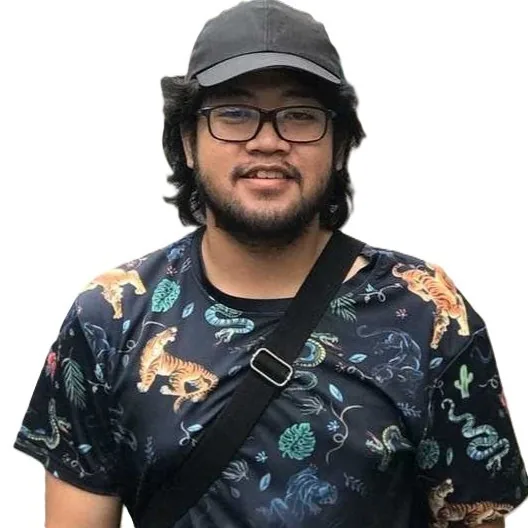
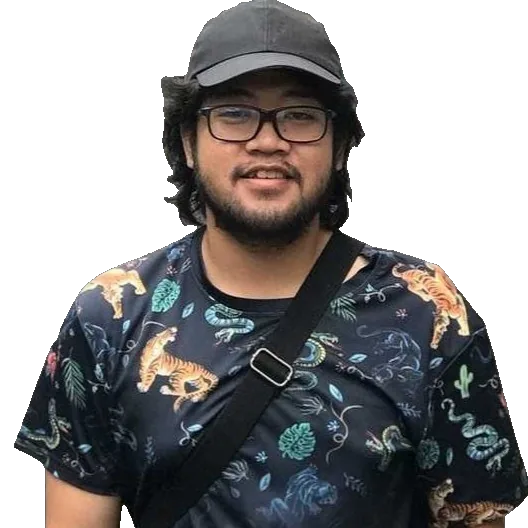
Dots only on the subject: one shared alpha mask for plate and canvas; fade and terminal card removed
#1 SUBJECT MASK
- tools/cutout.py: rembg (own venv, .venv-seg) cuts me.jpg into an RGBA me.webp whose
  ALPHA CHANNEL is the subject mask, binarised at 128. Installed cleanly -
  rembg 2.0.84 + onnxruntime 1.30.0, so no cutout needed from the user.
- ONE mask, both consumers: dotwave.js already loads me.webp as its canvas source, so
  the alpha gate IS the mask; gen-dots.py now reads me.webp (not me.jpg) at the same
  threshold. There is no second mask file to drift out of step.
- gen-dots.py: cover_brightness() returns (brightness, mask) built with the SAME
  cover-fit offsets, so a cell is painted only where the mask is true at that exact
  coordinate. New --no-mask flag emits the unmasked plate for comparison.
- Subject is 58.6% of the frame. Plate: 2,037 dots vs 2,273 unmasked - the brightness
  cull had already dropped the dim background, so the mask removes the remaining 236
  and guarantees zero background dots.
- Verified on the shipped SVG: all 2,037 dots land on the mask, 0 outside; the four
  frame corners hold 0 dots within 40px. On the canvas: 2,037 dots on-subject, 0
  painted outside - plate and canvas agree exactly, which is the point of sharing.
- Mask silhouette checked at 30x30: head, shoulders widening, torso filling the lower
  half; no row is fully covered and the subject does not touch the top corners.

#2 FADE REMOVED
- .hero__portrait-frame: mask-image, mask-composite and the -webkit- pair deleted.
[…]

diff --git a/assets/css/home.css b/assets/css/home.css
@@ -331,21 +331,8 @@ main > section > .container,
 }
 .hero__portrait-frame {
   position: relative;
-  /* White dots on the cobalt plate, with ALL FOUR edges dissolving into the porcelain
-     so the plate reads as a soft-edged object rather than a hard rectangle. The
-     corners go first, because the horizontal and vertical fades multiply there.
-
-     Two gradients intersected rather than one: a single radial gradient cannot fade
-     the four sides evenly on a square plate (a corner sits at hypot(0.385,0.385) =
-     54.4% while the edge midpoints sit at 38.5%, so any band between them eats the
-     sides too). `mask-composite: intersect` multiplies them, which is exactly
-     "fade every edge". 12% is the dial: raise it for a smaller solid core. */
-  -webkit-mask-image: linear-gradient(90deg, transparent 0%, #000 12%, #000 88%, transparent 100%),
-                      linear-gradient(180deg, transparent 0%, #000 12%, #000 88%, transparent 100%);
-  mask-image: linear-gradient(90deg, transparent 0%, #000 12%, #000 88%, transparent 100%),
-              linear-gradient(180deg, transparent 0%, #000 12%, #000 88%, transparent 100%);
-  -webkit-mask-composite: source-in;
-  mask-composite: intersect;
+  /* Hard edges. The four-side fade was removed on request — the plate is a plain
+     cobalt square and the dots delineate the subject instead. */
 }
 .hero__portrait-frame img,
 .hero__portrait-frame canvas {
@@ -442,45 +429,7 @@ main b {
 /* the real thing, site-wide, so actual text selection matches the theme */
 ::selection { background: var(--cobalt); color: #fff; }
 .field ::selection,
-.field--alt ::selection,
-.terminal ::selection { background: var(--on-cobalt); color: var(--field); }
-
-/* ---------------- Terminal card (inside About) ---------------- */
-.terminal {
-  margin-top: clamp(2rem, 5vw, 3.25rem);
-  background: var(--field);
-  border-radius: var(--r-lg);
-  padding: 1.5rem 1.75rem;
-  font-family: var(--font-mono);
-  font-size: clamp(0.78rem, 2.2vw, 0.92rem);   /* keeps the longest line inside the card at 375px */
-  line-height: 1.8;
-  color: var(--on-cobalt);
-  overflow-x: auto;      /* long lines scroll inside the card, never the page */
-}
-.terminal pre {
-  margin: 0;
-  font: inherit;
-  color: inherit;
-  white-space: pre;
-}
-.terminal .prompt { color: var(--on-cobalt-soft); }
-.terminal .out    { color: var(--on-cobalt-soft); }
-.terminal .ok     { color: var(--on-cobalt); }   /* the closing 'connected' line */
-.terminal .cursor {
-  display: inline-block;
-  width: 0.58em;
-  height: 1.05em;
-  background: var(--on-cobalt);
-  vertical-align: -0.18em;
-  animation: blink 1.1s steps(1, end) infinite;
-}
-@keyframes blink {
-  0%, 49%   { opacity: 1; }
-  50%, 100% { opacity: 0; }
-}
-@media (prefers-reduced-motion: reduce) {
-  .terminal .cursor { animation: none; opacity: 0.85; }
-}
+.field--alt ::selection { background: var(--on-cobalt); color: var(--field); }
 
 /* ---------------- Experience (cobalt field) ---------------- */
 .experience { padding-block: clamp(3rem, 8vw, 6rem); }
@@ -668,10 +617,6 @@ main b {
 
 /* ---------------- Off-duty (cobalt-deep) ---------------- */
 .off-duty { padding-block: clamp(3rem, 8vw, 6rem); }
-/* The gimmick card sits between the section subtitle and the media grid, so it needs
-   its own bottom gap — `.off-duty__grid` carries no top margin by design. */
-.off-duty__terminal { margin-bottom: clamp(1.5rem, 4vw, 2.5rem); }
-
 .off-duty__grid {
   display: grid;
   grid-template-columns: 1fr 1fr;

diff --git a/assets/js/dotwave.js b/assets/js/dotwave.js
@@ -1,9 +1,14 @@
 /* DotProfile from personal/rey-website, ported to plain JS. The reference was already
    a bare canvas + rAF loop; only the Preact wrapper was framework. Constants unchanged:
-   gap 7, baseRadius 2, brightness (r+g+b)/3/255, cull <=0.1,
+   gap 8, baseRadius 2, brightness (r+g+b)/3/255, cull <=0.1,
    radius = brightness*2*(0.8+0.4*wave), wave = sin(0.02x+0.02y-t)/2+0.5, t += 0.03/frame.
    Progressive enhancement: the static me-dots.svg plate stays in the markup; this swaps
-   in a canvas only when motion is welcome, so no-JS and reduced-motion keep the plate. */
+   in a canvas only when motion is welcome, so no-JS and reduced-motion keep the plate.
+
+   SRC (me.webp) is the rembg cutout from tools/cutout.py, and its ALPHA CHANNEL is the
+   subject mask — dots are drawn only where alpha >= ALPHA_MIN, so the background stays a
+   clean cobalt field. gen-dots.py reads the same file at the same threshold, which is
+   what stops the plate and the canvas from drifting apart. */
 (() => {
   'use strict';
   const img = document.querySelector('.hero__portrait-frame img');
@@ -11,9 +16,10 @@
   if (window.matchMedia('(prefers-reduced-motion: reduce)').matches) return;
 
   const GAP = 8, BASE_R = 2, CULL = 0.1, K = 0.02, STEP = 0.03, TAU = Math.PI * 2;
+  const ALPHA_MIN = 128;                 // in step with tools/cutout.py and gen-dots.py
   const FILL = '#163a6b', DOT = '#f4f7fb', SRC = 'assets/img/me.webp';
   const w = img.getAttribute('width') | 0 || 528;
-  const h = img.getAttribute('height') | 0 || 704;
+  const h = img.getAttribute('height') | 0 || 528;
 
   // sample off-screen: never read back from the visible canvas, that forces software raster
   const off = document.createElement('canvas');
@@ -35,6 +41,7 @@
     for (let y = 0; y < h; y += GAP) {
       for (let x = 0; x < w; x += GAP) {
         const i = (y * w + x) * 4;
+        if (px[i + 3] < ALPHA_MIN) continue;          // outside the subject: leave the field
         const b = (px[i] + px[i + 1] + px[i + 2]) / 765;
         if (b <= CULL) continue;
         const wave = Math.sin(x * K + y * K - t) * 0.5 + 0.5;

diff --git a/index.html b/index.html
@@ -218,23 +218,6 @@
           <h2>Out of the Terminal</h2>
           <p>Outside work, I'm a person of simple pleasures. I love to play video games.</p>
         </div>
-        <!-- The pun the section is named after: close work, open the fun. Static so
-             every visitor sees it (the splash's animation went with the splash).
-             role="img" + aria-label because a transcript is one announcement, not a
-             pile of loose characters for a screen reader to spell out. -->
-        <div class="terminal off-duty__terminal" data-reveal role="img"
-             aria-label="Terminal transcript — close work: Kubernetes, Docker and Jenkins stopped; open steam: Steam is running; open spotify: Spotify is playing.">
-          <pre><span class="prompt">$</span> close work
-<span class="out">✓ kubernetes · docker · jenkins → stopped</span>
-
-<span class="prompt">$</span> open steam
-<span class="ok">✓ Steam is running 🎮</span>
-
-<span class="prompt">$</span> open spotify
-<span class="ok">✓ Spotify is playing 🎧</span>
-
-<span class="prompt">$</span> <span class="cursor" aria-hidden="true"></span></pre>
-        </div>
         <div class="off-duty__grid">
           <div class="off-duty__media" data-reveal>
             <video autoplay loop muted playsinline preload="metadata" poster="assets/img/off-duty-poster.webp">

diff --git a/tools/gen-dots.py b/tools/gen-dots.py
@@ -17,9 +17,15 @@ the skin-tone mass instead of the geometric centre.
 `t` freezes one frame of the wave. t=0 is the reference's first frame; scan t to
 see what the living version would do.
 
+The source is me.webp, the cutout from tools/cutout.py, NOT me.jpg — its ALPHA
+CHANNEL is the subject mask, so dots are painted only where the subject is and the
+background stays a clean cobalt field. dotwave.js reads the same file and the same
+threshold, so the static plate and the canvas cannot disagree about what is subject.
+Use --no-mask to see the unmasked dots for comparison.
+
 Run from repo root:
-  python tools/gen-dots.py --out assets/img --name me-dots.svg --size 528x704 \
-         --fill "#163a6b" --dot "#f4f7fb"
+  python tools/gen-dots.py --out assets/img --name me-dots.svg --size 528x528 \
+         --fill "#163a6b" --dot "#f4f7fb" --gap 8
 """
 import argparse
 import os
@@ -27,18 +33,22 @@ import os
 import numpy as np
 from PIL import Image
 
-SRC = "assets/img/me.jpg"
+SRC = "assets/img/me.webp"   # the cutout: RGB for brightness, ALPHA for the mask
 FILL = "#163a6b"      # cobalt-deep plate (the reference's own is #16181d)
 DOT = "#f4f7fb"       # pale dots
 GRID = 6              # gap
 BASE_R = 2.0          # baseRadius
 WAVE_K = 0.02         # x*0.02 + y*0.02
 CULL = 0.1            # brightness <= 0.1 is dropped
+ALPHA_MIN = 128       # keep in step with tools/cutout.py and dotwave.js
 BUCKETS = 24          # radius quantisation (the reference is continuous)
 
 
 def cover_brightness(img, w, h, top=None):
-    """Reference cover-fit, then per-cell brightness on the grid.
+    """Reference cover-fit, then per-cell brightness on the grid and the subject mask.
+
+    Returns (brightness, mask). Both are produced with the SAME cover-fit offsets, so
+    a dot is only ever painted where the mask says subject at that exact coordinate.
 
     Scales the image to COVER the canvas and centres the overflow — the
     reference's own behaviour. With a canvas matching the source's ratio the
@@ -55,10 +65,19 @@ def cover_brightness(img, w, h, top=None):
         off_x, off_y = 0.0, -(render_h - h) / 2
     if top is not None:
         off_y = -float(top)
+    ox, oy = int(round(off_x)), int(round(off_y))
+
     canvas = Image.new("RGB", (w, h), (0, 0, 0))
-    canvas.paste(img, (int(round(off_x)), int(round(off_y))))
+    canvas.paste(img.convert("RGB"), (ox, oy))
     a = np.asarray(canvas).astype(float)
-    return a.mean(axis=2) / 255.0
+
+    if "A" in img.getbands():
+        m = Image.new("L", (w, h), 0)
+        m.paste(img.getchannel("A"), (ox, oy))
+        mask = np.asarray(m) >= ALPHA_MIN
+    else:
+        mask = np.ones((h, w), dtype=bool)   # no alpha: nothing to mask
+    return a.mean(axis=2) / 255.0, mask
 
 
 def skin_top(img, h):
@@ -75,14 +94,17 @@ def skin_top(img, h):
     return int(round(min(max(cy - h / 2, 0), img.size[1] - h)))
 
 
-def render(bright, t):
+def render(bright, mask, t):
     """One frozen frame as SVG, bucketed by radius so ~9k dots stay one path per
-    bucket instead of 9k <circle> elements."""
+    bucket instead of 9k <circle> elements. A cell is painted only if the subject
+    mask covers it, so the background stays a clean field."""
     h, w = bright.shape
     buckets = [[] for _ in range(BUCKETS)]
     coords_y, coords_x = np.arange(0, h, GRID), np.arange(0, w, GRID)
     for y in coords_y:
         for x in coords_x:
+            if not mask[y, x]:
+                continue
             b = bright[y, x]
             if b <= CULL:
                 continue
@@ -121,22 +143,31 @@ def main():
     ap.add_argument("--fill", default=FILL, help="field colour (reference: #16181d)")
     ap.add_argument("--dot", default=DOT, help="dot colour")
     ap.add_argument("--gap", type=int, default=GRID, help="grid gap (reference: 6)")
+    ap.add_argument("--no-mask", action="store_true",
+                    help="ignore the subject mask (paint every cell; for comparison)")
     args = ap.parse_args()
 
     FILL, DOT, GRID = args.fill, args.dot, args.gap
     w, h = (int(v) for v in args.size.lower().split("x"))
-    img = Image.open(SRC).convert("RGB")
-    top = skin_top(img, h) if args.crop == "skin" else None
-    bright = cover_brightness(img, w, h, top)
-    svg, dots = render(bright, args.frame)
+    img = Image.open(SRC)
+    top = skin_top(img.convert("RGB"), h) if args.crop == "skin" else None
+    bright, mask = cover_brightness(img, w, h, top)
+    if args.no_mask:
+        mask = np.ones_like(mask)
+    svg, dots = render(bright, mask, args.frame)
     os.makedirs(args.out, exist_ok=True)
     path = os.path.join(args.out, args.name)
     with open(path, "w", encoding="utf-8") as f:
         f.write(svg)
+    grid_cells = len(range(0, h, GRID)) * len(range(0, w, GRID))
     print(f"{path}: {len(svg) / 1024:.1f} KB, {dots} dots, {w}x{h}, "
           f"grid {GRID}, t={args.frame}, crop {args.crop}, "
           f"field {FILL}, dots {DOT}"
           + (f" (band top {top})" if top is not None else " (no crop)"))
+    print(f"  subject mask: {100 * mask.sum() / mask.size:.1f}% of the frame "
+          f"({mask.sum()} of {mask.size} px), {grid_cells} grid cells, "
+          f"alpha >= {ALPHA_MIN}"
+          + ("  [MASK DISABLED]" if args.no_mask else ""))
 
 
 if __name__ == "__main__":

diff --git a/tools/cutout.py b/tools/cutout.py
@@ -1,0 +1,47 @@
+"""Cut the subject out of me.jpg into an RGBA me.webp.
+
+The point is the ALPHA CHANNEL: it is the subject mask, and because dotwave.js already
+loads this exact file as its canvas source, both renderers read one mask from one file.
+That is deliberate — the SVG plate and the animated canvas literally cannot drift,
+which is the bug class that bit us when the plate was grid 8 / radius 2 while the
+canvas was still 6 / 6.
+
+Alpha is binarised at ALPHA_CUT. rembg returns a soft matte, but a dot matrix wants a
+hard yes/no per cell; 128 is the standard midpoint and matches the canvas's own gate in
+dotwave.js (ALPHA_MIN), so the two agree cell for cell.
+
+Run from repo root, in the segmentation venv (the model downloads on first use, ~176 MB):
+    .venv-seg/Scripts/python.exe tools/cutout.py
+"""
+import numpy as np
+from PIL import Image
+from rembg import remove
+
+SRC = "assets/img/me.jpg"
+OUT = "assets/img/me.webp"
+ALPHA_CUT = 128          # keep in step with dotwave.js's ALPHA_MIN
+QUALITY, METHOD = 82, 6  # the same encode settings the plain re-encode used
+
+
+def main():
+    img = Image.open(SRC).convert("RGB")
+    cut = np.asarray(remove(img)).copy()          # RGBA, soft matte
+    soft = cut[..., 3]
+    hard = (soft >= ALPHA_CUT).astype(np.uint8) * 255
+    cut[..., 3] = hard
+    Image.fromarray(cut, "RGBA").save(OUT, "WEBP", quality=QUALITY, method=METHOD)
+
+    h, w = hard.shape
+    subject = int((hard > 0).sum())
+    # bounding box of the subject, as a share of the frame
+    rows, cols = np.where(hard > 0)
+    print(f"{OUT}: {w}x{h}, subject {subject} px ({100 * subject / (w * h):.1f}% of frame), "
+          f"alpha cut {ALPHA_CUT}, soft alpha kept: {(soft < 128).sum() - (soft < 1).sum()} px")
+    if len(rows):
+        print("  subject bbox: x %d..%d  y %d..%d  (%d%% of the frame wide, %d%% tall)"
+              % (cols.min(), cols.max(), rows.min(), rows.max(),
+                 100 * (cols.max() - cols.min()) / w, 100 * (rows.max() - rows.min()) / h))
+
+
+if __name__ == "__main__":
+    main()
